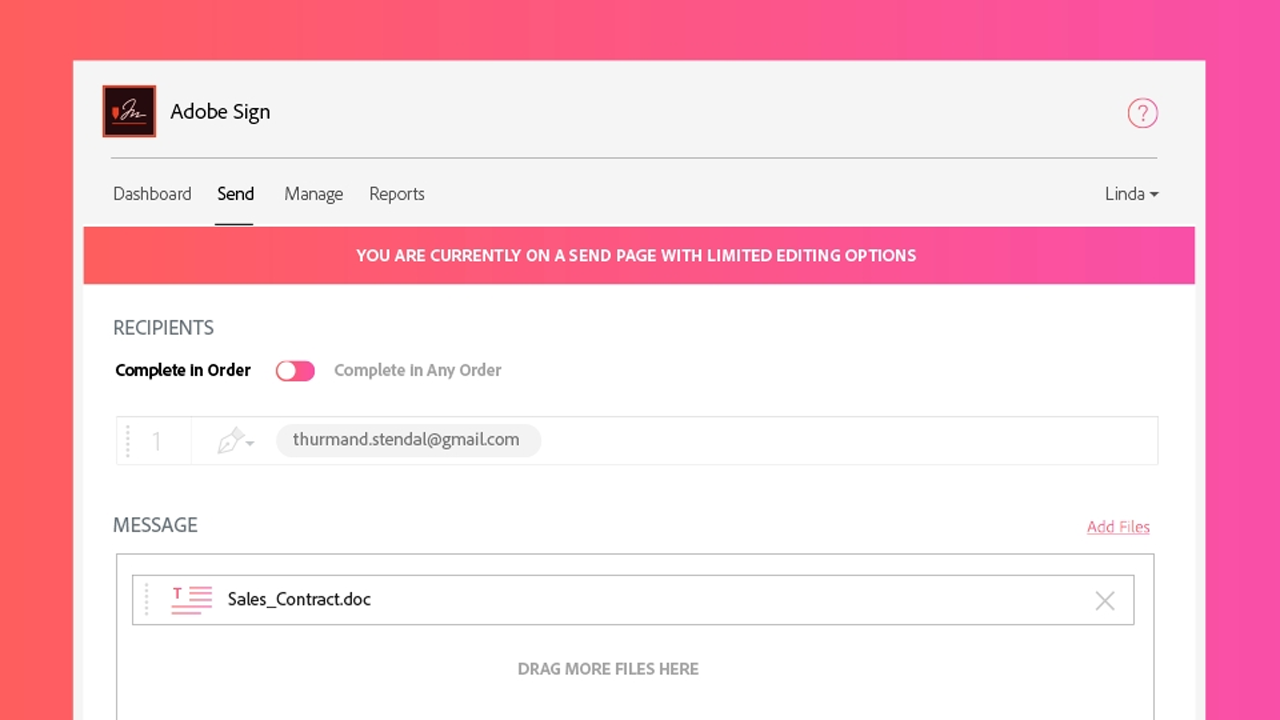
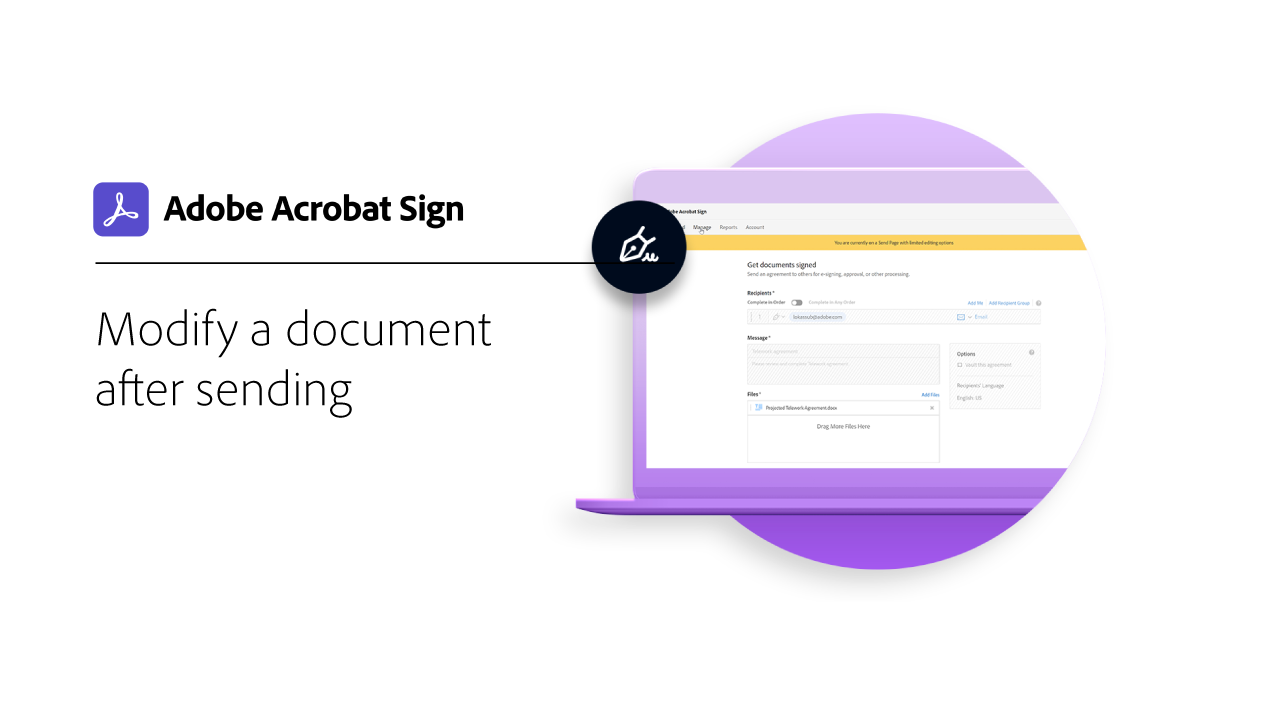
Modifying tutorial

diff --git a/help/sign/sign-beginner-tutorials/beginner-users-overview.md b/help/sign/sign-beginner-tutorials/beginner-users-overview.md
@@ -59,10 +59,15 @@ Get up-to-speed on how to send, sign, and track documents with these brief step-
     <em>This comprehensive tutorial is a great place to start for new senders in Acrobat Sign</em>
     <br>
   </td>
-  <td>
-    <img alt="Spacer" src="../assets/Grayspacer.png" />
+ <td>
+    <a href="modify-in-flight.md">
+      <img alt="Modifying a document after sending" src="../assets/Modifying-sending.png" />
+    </a>
     <div>
+    <a href="modify-in-flight.md"><strong>Modifying a document after sending</strong></a>
+    </div>
     <br>
+    <em>Modify a document that's already in progress</em>
   </td>
   <td>
     <img alt="Spacer" src="../assets/Grayspacer.png" />
@@ -161,14 +166,9 @@ Get up-to-speed on how to send, sign, and track documents with these brief step-
     <br>
   </td>
   <td>
-    <a href="modify-in-flight.md">
-      <img alt="Modifying a document already sent for signature" src="../assets/Modifying-sending.png" />
-    </a>
+    <img alt="Spacer" src="../assets/Whitespacer.png" />
     <div>
-    <a href="modify-in-flight.md"><strong>Modifying a document already sent for signature</strong></a>
-    </div>
     <br>
-    <em>Modify the workflow for a document that's already in progress</em>
   </td>
 </tr>
 </table>

diff --git a/help/sign/TOC.md b/help/sign/TOC.md
@@ -20,6 +20,7 @@ breadcrumb-title: Acrobat Sign Tutorials
     + [Sending to a single recipient](sign-beginner-tutorials/send-to-single-recipient.md)
     + [Sending to multiple recipients](sign-beginner-tutorials/send-to-multiple-recipients.md)
     + [Getting started with Acrobat Sign for new senders](sign-beginner-tutorials/new-sender.md)
+    + [Modifying a document after sending](sign-beginner-tutorials/modify-in-flight.md)
   + Signing {#getting-started-signing}
     + [Electronically signing a document](sign-beginner-tutorials/electronically-sign-a-document.md)
     + [Filling and signing a document](sign-beginner-tutorials/fill-and-sign.md)
@@ -29,7 +30,6 @@ breadcrumb-title: Acrobat Sign Tutorials
   + Managing {#getting-started-managing}
     + [Manage & track your agreements](sign-beginner-tutorials/manage-and-track.md)
     + [Creating a document template](https://experienceleague.adobe.com/docs/document-cloud-learn/sign-learning-hub/admin-set-up/getting-started-admin/create-a-template.html)
-    + [Modifying a document already sent for signature](sign-beginner-tutorials/modify-in-flight.md)
 + Advanced tasks {#advanced-tasks}
   + [Overview](sign-advanced-users/advanced-users-overview.md)
   + Sending {#advanced-tasks-sending}

diff --git a/help/sign/sign-beginner-tutorials/modify-in-flight.md b/help/sign/sign-beginner-tutorials/modify-in-flight.md
@@ -1,18 +1,22 @@
 ---
-title: Modifying a Document Already Sent for Signature
+title: Modifying a Document after Sending
 description: Learn how to modify the workflow for a document that's already in progress
 role: User
 product: adobe sign
 solution: Acrobat Sign
 level: Beginner
-thumbnail: 17343.jpg
+thumbnail: KT-5316.jpg
 exl-id: a6d353a5-823a-4637-8462-f3b8536f078c
 ---
-# Modifying a document already sent for signature
+# Modifying a document after sending
 
-Learn how to modify a document that's already been sent out for signature — like when a document is sent by mistake.
+Learn how to modify a document that's already been sent out for signature--like when the wrong document is sent out by mistake.
 
->[!VIDEO](https://video.tv.adobe.com/v/17343?hidetitle=true)
+>[!NOTE]
+>
+>Modifying a document after sending is only available for enterprise-level plans. Your Acrobat Sign administrator may need to enable the Modify Agreements setting in the Send Settings section of the Account Settings to use this feature. 
+
+>[!VIDEO](https://video.tv.adobe.com/v/342299?hidetitle=true)
 
 >[!TIP]
 >

diff --git a/help/sign/sign-advanced-users/setting-up-routing.md b/help/sign/sign-advanced-users/setting-up-routing.md
@@ -14,6 +14,6 @@ Learn how to set up the signing order for multiple signers. Send a document in s
 
 >[!NOTE]
 >
->Hybrid routing is only available for enterprise-level plans. You may need to contact your Acrobat Sign administrator to enable specific settings covered in this tutorial.
+>Hybrid routing is only available for enterprise-level plans. Your Acrobat Sign administrator may need to enable these features in the Send Settings section of the Account Settings. 
 
 >[!VIDEO](https://video.tv.adobe.com/v/342249?hidetitle=true)

diff --git a/help/sign/admin/create-a-report.md b/help/sign/admin/create-a-report.md
@@ -11,6 +11,10 @@ exl-id: 337320ae-6e0c-45f9-8e1f-751a293375ad
 
 Learn how to run, save, and schedule reports in Acrobat Sign.
 
+>[!NOTE]
+>
+>Reporting is only available for business and  enterprise-level plans.
+
 >[!VIDEO](https://video.tv.adobe.com/v/17357?hidetitle=true)
 
 >[!TIP]
